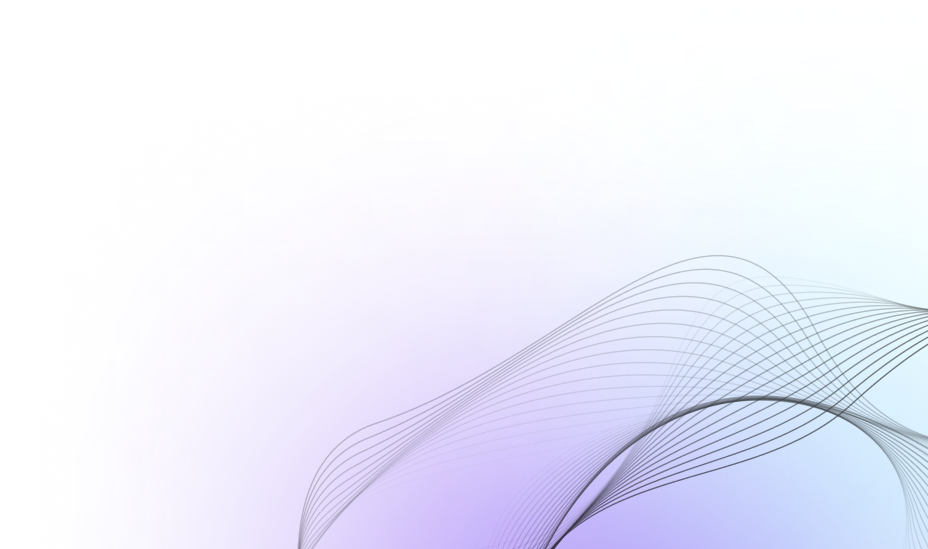
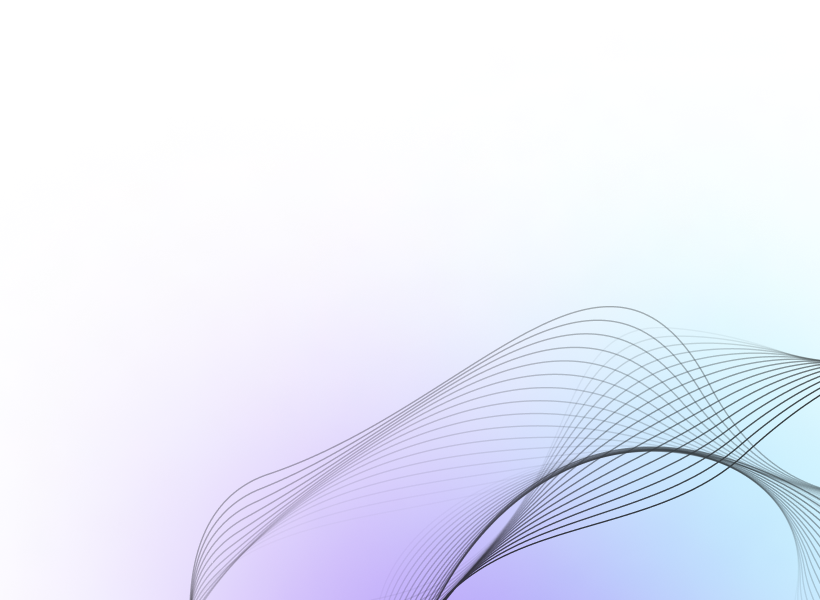
Changed to column layout, added work and cta section, started working on fixed positions for services

Changed region(s): [[0.2134, 0.4645, 1.0, 1.0]]

diff --git a/index.html b/index.html
@@ -107,43 +107,194 @@
         </div>
     </div>
 
-        <!-- About Numbers -->
+        <!-- About Us -->
 
       <div class="container-fluid top-xxl" id="about-us">
         <div class="container">
-          <h3 class="white semibold title">We detect, optimize and enhance innovative ideas</h3>
-          <div class="p-container top-lg">
-          <p class="home-text">
-            At Peterson Technologies we detect, optimize, and enhance innovative ideas and solutions, transforming them into services that meet the changing business and market requirements generating added value.
-          </p>
-          <p class="home-text">
-            We apply design thinking and data driven decision processes combined with sprint methodologies to build digital solutions in the pursuit of a more efficient performance that will improve the customer journey.
-          </p>
+          <div class="row">
+            <div class="col-md-6 align-self-start">
+              <h3 class="white semibold">We detect, enhance and optimize innovative ideas</h3>
+            </div>
+            <div class="w-100"></div>
+
+            <div class="col-md-6 offset-md-6">
+              <div class="p-container top-xl">
+                <p class="home-text">
+                  At Peterson Technologies we detect, optimize, and enhance innovative ideas and solutions, transforming them into services that meet the changing business and market requirements generating added value.
+                </p>
+                <p class="home-text">
+                  We apply design thinking and data driven decision processes combined with sprint methodologies to build digital solutions in the pursuit of a more efficient performance that will improve the customer journey.
+                </p> 
+              </div>
+          </div>
+          
         </div>
 
          
         </div>
       </div>
 
-      <div class="container-fluid top-xxl" id="services">
-        <div class="container">
-          <h3 class="white semibold title">Our service offering</h3>
-          <div class="p-container top-lg">
-          <p class="home-text">
-            At Peterson Technologies we detect, optimize, and enhance innovative ideas and solutions, transforming them into services that meet the changing business and market requirements generating added value.
-          </p>
-          <p class="home-text">
-            We apply design thinking and data driven decision processes combined with sprint methodologies to build digital solutions in the pursuit of a more efficient performance that will improve the customer journey.
-          </p>
-        </div>
 
-         
+         <!-- Service Offering -->
+
+         <div class="container-fluid top-xxl" id="services">
+          <div class="container">
+              <h3 class="white semibold bottom-xl">Service offering</h3>
+            <div class="w-100"></div>
+            <div class="row">
+              <div class="col-md-6 offset-md-6">
+                <div class="service">
+                 <div class="service-header d-inline d-flex align-items-center">
+                  <img src="img/softdev_icon.png" alt="Software development icon" class="service-logo">
+                  <h5 class="service-title bold white pt-2">Software development</h5>
+                 </div>
+                 <div class="service-body top-md">
+                  <p class="home-text">
+                    Find the right solution for your business with our experienced engineering teams. Take your productivity further with single software solutions
+                  </p> 
+                  <a href="" class="service-link top-sm d-block">More about software development</a>
+                </div>
+                </div>
+            </div>
+
+            <div class="col-md-6 offset-md-6">
+              <div class="service top-xl">
+               <div class="service-header d-inline d-flex align-items-center">
+                <img src="img/softdev_icon.png" alt="Software development icon" class="service-logo">
+                <h5 class="service-title bold white pt-2">Data analytics</h5>
+               </div>
+               <div class="service-body top-md">
+                <p class="home-text">
+                  Discover a more efficient data-based decision-making solution that reduces costs and work times. Present results like you have never seen before
+                </p> 
+                <a href="" class="service-link top-sm d-block">More about data analytics</a>
+              </div>
+              </div>
+          </div>
+
+
+          <div class="col-md-6 offset-md-6">
+            <div class="service top-xl">
+             <div class="service-header d-inline d-flex align-items-center">
+              <img src="img/softdev_icon.png" alt="Software development icon" class="service-logo">
+              <h5 class="service-title bold white pt-2">Geoprocessing</h5>
+             </div>
+             <div class="service-body top-md">
+              <p class="home-text">
+                Manage and analyze geographical data for various uses: crop or stock monitoring, property appraisal, ﬁre detection, management decisions, and more
+              </p> 
+              <a href="" class="service-link top-sm d-block">More about geoprocessing</a>
+            </div>
+            </div>
         </div>
+        
+        
+        <div class="col-md-6 offset-md-6">
+          <div class="service top-xl">
+           <div class="service-header d-inline d-flex align-items-center">
+            <img src="img/softdev_icon.png" alt="Software development icon" class="service-logo">
+            <h5 class="service-title bold white pt-2">E-Learning</h5>
+           </div>
+           <div class="service-body top-md">
+            <p class="home-text">
+              Our team will help you select or develop learning materials that turn information into clear and interactive content for students to learn at their own pace
+            </p> 
+            <a href="" class="service-link top-sm d-block">More about e-learning</a>
+          </div>
+          </div>
       </div>
+
+      <img src="/img/bg_services.png" alt="" class="">
+
+            
+          </div>
+  
+           
+          </div>
+        </div>
+
+
+                 <!-- Works -->
+
+     
+                 <div class="container-fluid top-xxl" id="our-work">
+                  <div class="container">
+                    <div class="row">
+                      <div class="col-md-6 align-self-start">
+                        <h3 class="white semibold">Our work</h3>
+                      </div>
+                      <div class="w-100"></div>
+          
+                      <div class="col-md-4 top-xl case-study">
+                        <a href="">
+                          <div class="card">
+                          <h6 class="card-title bold">
+                            Peterson Technologies has partnered with Nestlé
+                          </h6>
+                          <p class="card-body top-sm">
+                            We use our new system to detect and prevent mycotoxing generation 
+                          </p>
+                          <a href="" class="card-link d-inline top-md">View case study</a>
+                        </div>
+                      </a>
+                    </div>
+
+                    <div class="col-md-4 top-xl case-study">
+                      <a href="">
+                        <div class="card">
+                        <h6 class="card-title bold">
+                          Peterson Technologies has partnered with Nestlé
+                        </h6>
+                        <p class="card-body top-sm">
+                          We use our new system to detect and prevent mycotoxing generation 
+                        </p>
+                        <a href="" class="card-link d-inline top-md">View case study</a>
+                      </div>
+                    </a>
+                  </div>
+
+                  <div class="col-md-4 top-xl case-study">
+                    <a href="">
+                      <div class="card">
+                      <h6 class="card-title bold">
+                        Peterson Technologies has partnered with Nestlé
+                      </h6>
+                      <p class="card-body top-sm">
+                        We use our new system to detect and prevent mycotoxing generation 
+                      </p>
+                      <a href="" class="card-link d-inline top-md">View case study</a>
+                    </div>
+                  </a>
+                </div>
+                    
+                  </div>
+          
+                   
+                  </div>
+                </div>
       
 
-      
+                    <!-- Let's Work -->
 
-   
+                    <div class="container-fluid">
+                      <div class="container text-center top-xxl bottom-xxl">
+                        <div class="row justify-content-center">
+                          <div class="col-md-6">
+                            <h3 class="white semibold">Let's work together</h3>
+                            <p class="home-text w-75 m-auto top-sm bottom-sm">
+                              Get in touch with us in order to discuss your company's needs
+                            </p> 
+                            <div class="button-wrapper top-lg"><a class="button" href="#">Contact Our Team</a></div>
+
+                          </div>
+                        </div>
+                      </div>
+                    </div>
+
+
+
+
+
+
   </body>
 </html>

diff --git a/css/style.css b/css/style.css
@@ -23,6 +23,7 @@ body {
 .button:hover {
     background: var(--primary);
     color: var(--black)!important;
+    text-decoration: underline;
 }
 
 .navbar-expand-lg .navbar-nav .nav-link  {
@@ -64,11 +65,11 @@ p {
 }
 
 .top-sm {
-    padding-top: 16px;
+    padding-top: 16px!important;
 }
 
 .top-md {
-    padding-top: 32px;
+    padding-top: 24px;
 }
 
 .top-lg {
@@ -81,6 +82,18 @@ p {
 
 .top-xxl {
     padding-top: 200px;
+}
+
+.bottom-xxl {
+    padding-bottom: 200px;
+}
+
+.bottom-xl {
+    padding-bottom: 128px;
+}
+
+.bottom-lg {
+    padding-bottom: 64px;
 }
 
 .bold {
@@ -193,6 +206,111 @@ p {
 }
 
 .p-container {
-    max-width: 50%;
     float: right;
+}
+
+.navbar {
+    padding: .5rem 0;
+}
+
+a {
+    color: var(--primary);
+}
+
+a:hover {
+    color: var(--primary);
+}
+
+.service-title {
+    padding-left: 16px;
+}
+
+#about-us {
+    background-image: url(/img/bg_section.png);
+    background-position: top right;
+    background-repeat: no-repeat;
+}
+
+#services {
+    background-position: center bottom;
+    background-repeat: no-repeat;
+}
+
+#services img {
+    position: sticky;
+    bottom: -600px;
+    z-index: 9;
+   
+}
+
+#services .col-md-6, #services h3 {
+    z-index: 9999!important;
+}
+
+
+/* CARD */
+
+.card {
+    border: 2px solid var(--primary);
+    background: transparent;
+    padding: 40px 24px 40px;
+    color: white;
+}
+
+.card, .card p {
+    transition: ease-in-out .2s;
+}
+
+.card-body {
+    padding: 0;
+}
+
+.card p, .card-title {
+    margin-bottom: 0px;
+}
+
+.case-study a {
+    color: inherit;
+}
+
+a.card-link {
+    font-size: 15px;
+    color: var(--primary);
+}
+
+.card:hover {
+    background: var(--primary);
+    color: var(--black);
+}
+
+.card:hover .card-link {
+    color: var(--black);
+    text-decoration: underline;
+}
+
+.card:hover p {
+    color: var(--black)
+}
+
+
+
+.case-study:hover a {
+    text-decoration: none;
+}
+
+a.button {
+    padding-top: 16px!important;
+    padding-bottom: 16px!important;
+
+}
+
+a.button-nav {
+    padding-top: .4rem!important;
+    padding-bottom: .4rem!important;
+}
+
+#services h3 {
+    position: sticky;
+    position: -webkit-sticky;
+    top: 200px;
 }
